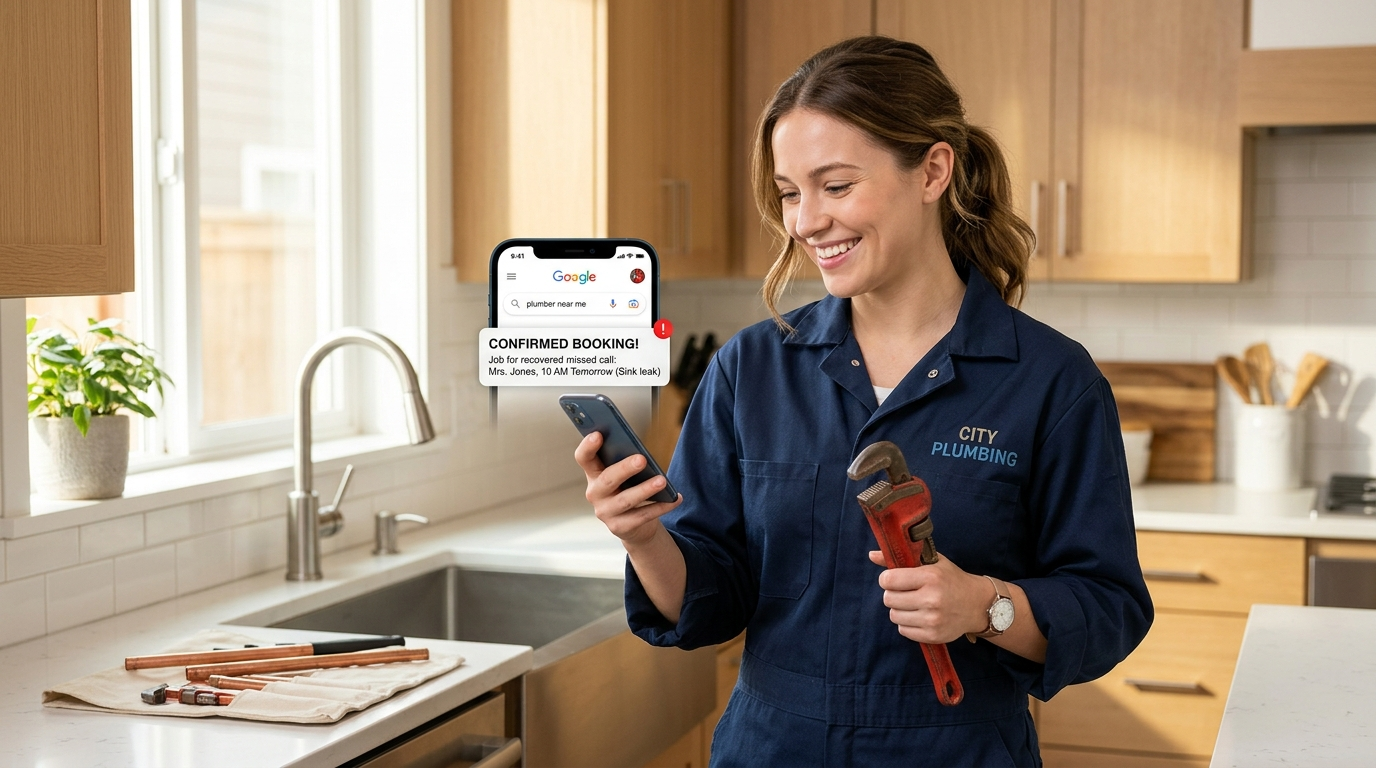
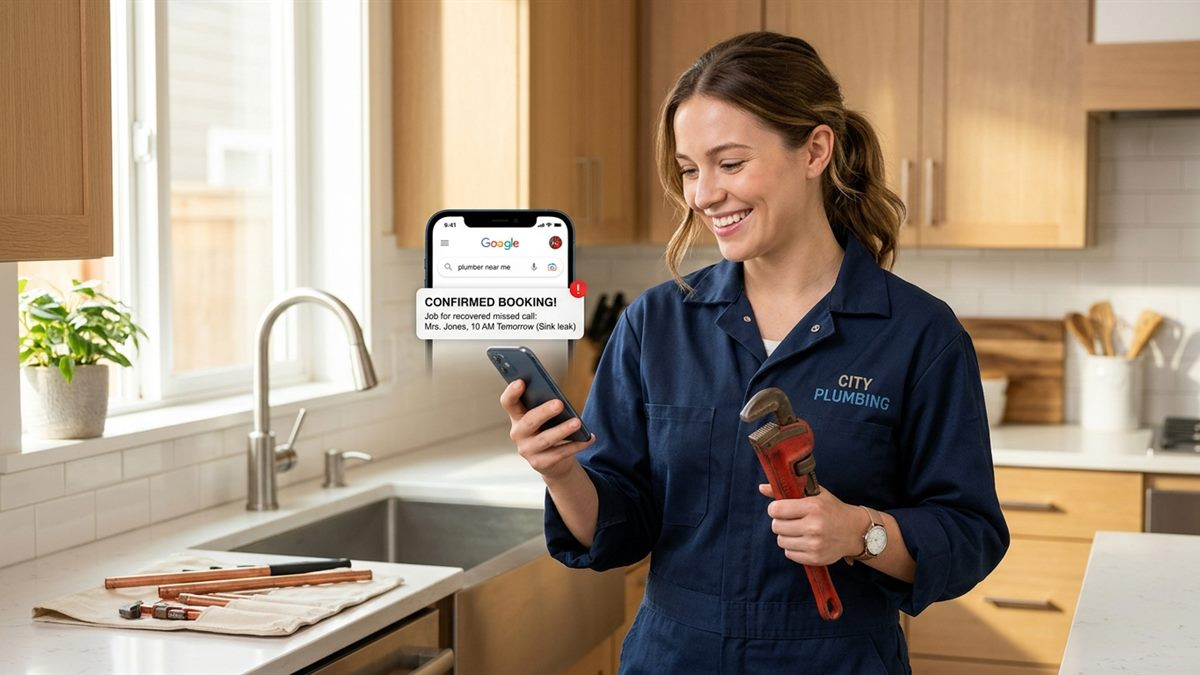
style: 1200x675 images, 16:9 media boxes and one layout grid across home + city pages

diff --git a/public/city.css b/public/city.css
@@ -23,7 +23,7 @@ a { color: inherit; }
 /* ---------- top bar ---------- */
 .city-bar { position: sticky; top: 0; z-index: 20; background: rgba(13,27,42,.92);
   backdrop-filter: blur(8px); border-bottom: 1px solid var(--line); }
-.bar-inner { max-width: 1040px; margin: 0 auto; padding: 12px 20px; display: flex;
+.bar-inner { max-width: 1200px; margin: 0 auto; padding: 12px 20px; display: flex;
   align-items: center; justify-content: space-between; gap: 14px; }
 .brand { display: flex; align-items: center; gap: 10px; text-decoration: none; }
 .brand-mark { display: grid; place-items: center; width: 38px; height: 38px; border-radius: 11px;
@@ -44,47 +44,47 @@ a { color: inherit; }
 .btn-lg { padding: 13px 22px; font-size: 14.5px; }
 
 /* ---------- layout ---------- */
-.city-main { max-width: 1040px; margin: 0 auto; padding: 0 20px 60px; }
-.hero { padding: 54px 0 10px; }
+.city-main { width: 100%; max-width: 1200px; margin: 0 auto; padding: 0 20px 60px; }
+.hero { padding: clamp(30px, 5vw, 64px) 0 clamp(34px, 5vw, 68px); }
 .kicker { margin: 0 0 10px; font-size: 11px; font-weight: 900; letter-spacing: .16em;
   text-transform: uppercase; color: var(--gold); }
-h1 { margin: 0; font-size: clamp(1.9rem, 4.4vw, 2.9rem); line-height: 1.12; letter-spacing: -.025em; font-weight: 900; }
+h1 { margin: 0; font-size: clamp(2rem, 4.3vw, 3.5rem); line-height: 1.12; letter-spacing: -.025em; font-weight: 900; }
 .lede { margin: 16px 0 0; max-width: 62ch; font-size: 15.5px; color: #CBD5E1; }
 .local { margin: 12px 0 0; max-width: 62ch; font-size: 14px; color: var(--slate); }
 .cta-row { display: flex; flex-wrap: wrap; gap: 10px; margin-top: 24px; }
 .cta-note { margin: 12px 0 0; font-size: 12px; color: var(--slate); }
 
 /* ---------- fact strip ---------- */
-.fact-strip { display: grid; gap: 12px; margin: 38px 0 0; padding: 16px 18px;
-  border: 1px solid var(--line); border-radius: 14px; background: rgba(18,34,53,.7); }
+.fact-strip { display: grid; gap: 12px; margin: clamp(26px, 4vw, 44px) 0 0; padding: 18px;
+  border: 1px solid rgba(226,169,59,.34); border-radius: 24px; background: rgba(18,34,53,.7); }
 .fact-strip > div { display: flex; flex-direction: column; }
 .fact-strip span { font-size: 9.5px; letter-spacing: .12em; text-transform: uppercase; color: var(--slate); font-weight: 850; }
 .fact-strip strong { font-size: 13px; color: #fff; }
 
 /* ---------- cards ---------- */
-.cards { display: grid; gap: 14px; margin-top: 34px; }
-.card { padding: 18px; border-radius: 16px; border: 1px solid rgba(148,163,184,.22);
+.cards { display: grid; gap: 14px; margin-top: clamp(26px, 4vw, 44px); }
+.card { padding: 18px; border-radius: 24px; border: 1px solid rgba(226,169,59,.34);
   background: linear-gradient(160deg, rgba(22,40,62,.95), rgba(18,34,53,.95)); }
 .card h2 { margin: 0 0 6px; font-size: 15px; color: var(--gold-2); }
 .card p { margin: 0; font-size: 13.5px; color: #C7D2E0; }
 
 /* ---------- plumbing photo ---------- */
-.photo-block { margin-top: 34px; }
-.photo-figure { position: relative; margin: 0; aspect-ratio: 16 / 9; border-radius: 16px;
-  overflow: hidden; border: 1px solid var(--line);
+.photo-block { margin-top: clamp(26px, 4vw, 44px); }
+.photo-figure { position: relative; margin: 0; width: 100%; aspect-ratio: 16 / 9; border-radius: 24px;
+  overflow: hidden; border: 1px solid rgba(226,169,59,.34);
   background: linear-gradient(135deg, rgba(226,169,59,.18), rgba(13,27,42,.94)); }
-.photo-figure img { display: block; width: 100%; height: 100%; object-fit: cover; }
+.photo-figure img { display: block; width: 100%; height: 100%; object-fit: cover; object-position: center; }
 .photo-figure figcaption { position: absolute; inset: auto 0 0 0; padding: 12px 14px;
   background: linear-gradient(to top, rgba(13,27,42,.92), rgba(13,27,42,0));
   color: #E8EEF6; font-size: 12px; font-weight: 600; }
 
 /* ---------- steps / pricing / faq ---------- */
-.steps, .pricing, .faq, .other-cities { margin-top: 42px; }
+.steps, .pricing, .faq, .other-cities { margin-top: clamp(26px, 4vw, 44px); }
 .steps h2, .pricing h2, .faq h2, .other-cities h2 { margin: 0 0 14px; font-size: 20px; letter-spacing: -.02em; }
 .steps ol { margin: 0; padding-left: 20px; color: #C7D2E0; font-size: 14px; }
 .steps li { margin-bottom: 10px; }
 .steps strong { color: #fff; }
-.price-card { padding: 22px; border-radius: 16px; border: 1px solid rgba(226,169,59,.45);
+.price-card { padding: 22px; border-radius: 24px; border: 1px solid rgba(226,169,59,.34);
   background: linear-gradient(160deg, rgba(226,169,59,.12), rgba(18,34,53,.9)); max-width: 420px; }
 .price-top { display: flex; align-items: baseline; gap: 10px; }
 .price-top strong { font-size: 38px; line-height: 1; color: #fff; }
@@ -110,7 +110,7 @@ h1 { margin: 0; font-size: clamp(1.9rem, 4.4vw, 2.9rem); line-height: 1.12; lett
 
 /* ---------- footer ---------- */
 .city-foot { border-top: 1px solid rgba(148,163,184,.15); padding: 26px 20px 40px;
-  max-width: 1040px; margin: 0 auto; font-size: 12px; color: var(--slate); }
+  max-width: 1200px; margin: 0 auto; font-size: 12px; color: var(--slate); }
 .foot-links { display: flex; flex-wrap: wrap; gap: 12px; margin-top: 12px; }
 .foot-links a { color: var(--gold); text-decoration: none; font-size: 12px; }
 .foot-links-legal a { color: var(--slate); }
@@ -119,4 +119,12 @@ h1 { margin: 0; font-size: clamp(1.9rem, 4.4vw, 2.9rem); line-height: 1.12; lett
   .fact-strip { grid-template-columns: repeat(3, minmax(0, 1fr)); }
   .cards { grid-template-columns: repeat(3, minmax(0, 1fr)); }
   .city-tiles { grid-template-columns: repeat(2, minmax(0, 1fr)); }
+}
+
+/* Same mobile grid as the homepage: 14px gutters, smaller radii. */
+@media (max-width: 640px) {
+  .bar-inner { padding: 12px 14px; }
+  .city-main { padding: 0 14px 48px; }
+  .city-foot { padding: 20px 14px 32px; }
+  .fact-strip, .card, .price-card, .photo-figure { border-radius: 18px; }
 }

diff --git a/public/index.html b/public/index.html
@@ -171,8 +171,8 @@
   }
   .hero-media { position: relative; min-width: 0; }
   .hero-photo {
-    position: relative; margin: 0; overflow: hidden; aspect-ratio: 4 / 3;
-    border-radius: 20px; border: 1px solid rgba(226, 169, 59, 0.44);
+    position: relative; margin: 0; overflow: hidden; aspect-ratio: 16 / 9; width: 100%;
+    border-radius: 24px; border: 1px solid rgba(226, 169, 59, 0.34);
     background: var(--navy-3); box-shadow: 0 36px 80px -34px rgba(0, 0, 0, 0.9);
   }
   .hero-photo img { display: block; width: 100%; height: 100%; object-fit: cover; object-position: 58% 42%; }
@@ -380,7 +380,7 @@
     .mkt-links { order: 3; flex-basis: 100%; margin-left: 0; justify-content: space-between; }
     .hero { grid-template-columns: 1fr; }
     .hero-title, .hero-question, .hero-lede { max-width: none; }
-    .hero-photo { aspect-ratio: 16 / 10; }
+    .hero-photo { aspect-ratio: 16 / 9; }
   }
   @media (max-width: 640px) {
     .bar-inner { padding: 10px 14px; gap: 9px; }
@@ -389,6 +389,7 @@
     .mkt-links { order: 3; gap: 2px; }
     .mkt-link { padding: 7px 8px; font-size: 11px; }
     .wrap { padding: 0 14px; }
+    .hero-photo, .cf-viewport { border-radius: 18px; }
     .hero { padding: 24px 0 30px; }
     .hero-title { font-size: 1.9rem; }
     .hero-actions .btn { flex: 1 1 100%; }
@@ -417,12 +418,13 @@
   .cf-title { margin: 0; font-size: clamp(1.25rem, 2.4vw, 1.7rem); font-weight: 850; letter-spacing: -.02em; }
   .cf-sub { margin: 6px 0 0; font-size: 12.5px; color: #94A3B8; }
   .cf-slider { position: relative; }
-  .cf-viewport { overflow: hidden; border-radius: 18px; border: 1px solid rgba(226,169,59,.28); }
-  .cf-track { display: flex; transition: transform .45s cubic-bezier(.22,.61,.36,1); will-change: transform; }
+  .cf-viewport { overflow: hidden; border-radius: 24px; border: 1px solid rgba(226,169,59,.34);
+    background: var(--navy-3); }
+  .cf-track { display: flex; align-items: stretch; transition: transform .45s cubic-bezier(.22,.61,.36,1); will-change: transform; }
   /* aspect-ratio reserves the box before the image loads -> no layout shift */
-  .cf-slide { position: relative; flex: 0 0 100%; margin: 0; aspect-ratio: 16 / 9;
+  .cf-slide { position: relative; flex: 0 0 100%; min-width: 100%; width: 100%; margin: 0; aspect-ratio: 16 / 9;
     background: linear-gradient(135deg, rgba(226,169,59,.18), rgba(13,27,42,.92)); }
-  .cf-slide img { display: block; width: 100%; height: 100%; object-fit: cover; }
+  .cf-slide img { display: block; width: 100%; height: 100%; object-fit: cover; object-position: center; }
   .cf-slide figcaption { position: absolute; inset: auto 0 0 0; margin: 0; padding: 14px 16px;
     background: linear-gradient(to top, rgba(13,27,42,.9), rgba(13,27,42,0));
     color: #E8EEF6; font-size: 12.5px; font-weight: 700; }
@@ -504,7 +506,7 @@
         <div class="hero-media">
           <figure class="hero-photo">
             <!-- Public hero photo slot: swap /assets/hero-plumber.jpg with your own Austin job-site photo. -->
-            <img src="/assets/hero-plumber.jpg" alt="Female Austin plumber in navy workwear with a pipe wrench, reviewing a booked burst-pipe call on her phone" width="1376" height="768" fetchpriority="high" decoding="async" />
+            <img src="/assets/hero-plumber.jpg" alt="Female Austin plumber in navy workwear with a pipe wrench, reviewing a booked burst-pipe call on her phone" width="1200" height="675" fetchpriority="high" decoding="async" />
             <span class="photo-tag">Austin, TX · On the job</span>
             <figcaption class="proof-pill">
               <span><span class="proof-dot" aria-hidden="true"></span>Google Search Call</span>
